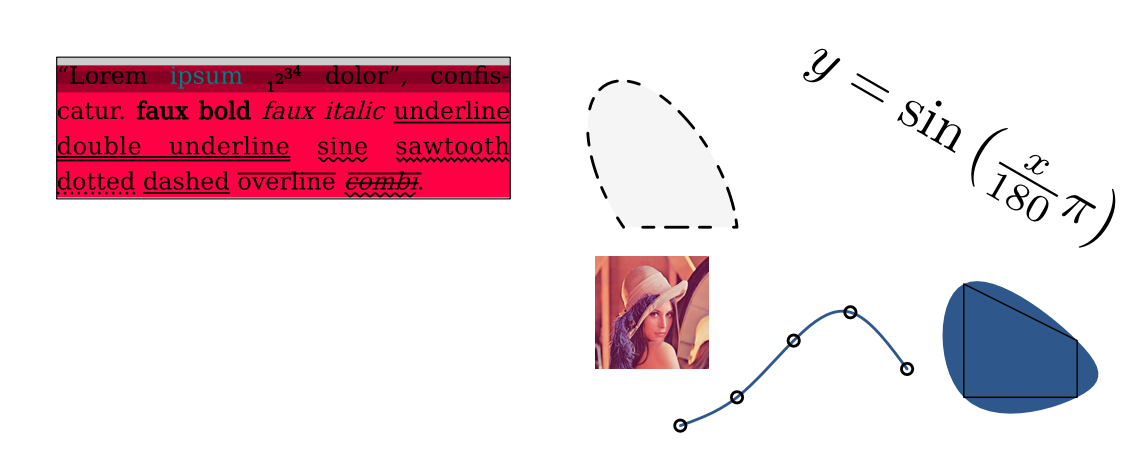
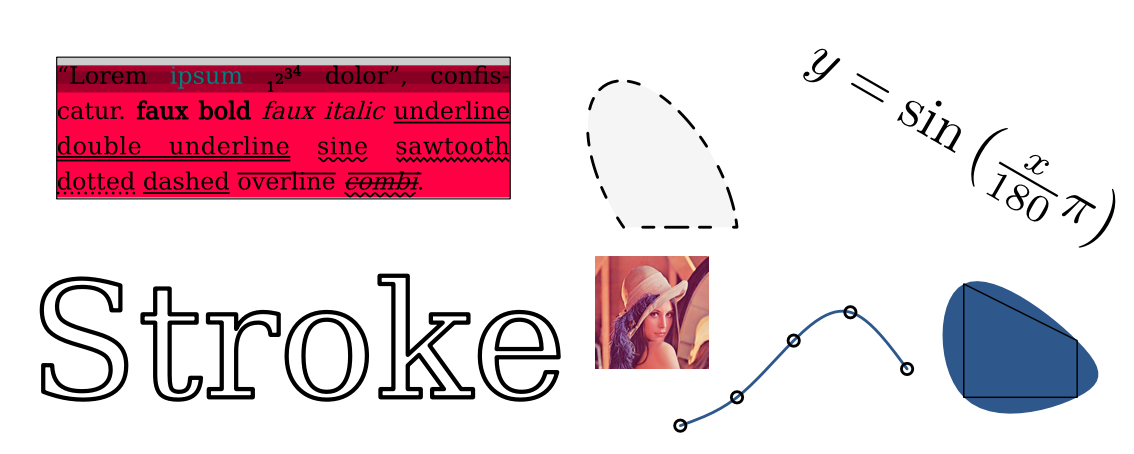
Face now returns path on string; fix example

Changed region(s): [[0.0309, 0.5859, 0.4938, 0.8943]]

diff --git a/font.go b/font.go
@@ -270,64 +270,66 @@ func (ff FontFace) TextWidth(s string) float64 {
 	return w
 }
 
-// ToPath converts a rune to a path and also returns its advance in mm.
-func (ff FontFace) ToPath(r rune) (*Path, float64) {
+// ToPath converts a string to a path and also returns its advance in mm.
+func (ff FontFace) ToPath(s string) (*Path, float64) {
 	// TODO: use caching if performance suffers
 	p := &Path{}
-	index, err := ff.f.sfnt.GlyphIndex(&sfntBuffer, r)
-	if err != nil {
-		return p, 0.0
-	}
+	x := 0.0
+	for _, r := range s {
+		index, err := ff.f.sfnt.GlyphIndex(&sfntBuffer, r)
+		if err != nil {
+			return p, 0.0
+		}
 
-	segments, err := ff.f.sfnt.LoadGlyph(&sfntBuffer, index, ff.ppem, nil)
-	if err != nil {
-		return p, 0.0
-	}
+		segments, err := ff.f.sfnt.LoadGlyph(&sfntBuffer, index, ff.ppem, nil)
+		if err != nil {
+			return p, 0.0
+		}
 
-	var start0, end Point
-	for i, segment := range segments {
-		switch segment.Op {
-		case sfnt.SegmentOpMoveTo:
-			if i != 0 && start0.Equals(end) {
-				p.Close()
+		var start0, end Point
+		for i, segment := range segments {
+			switch segment.Op {
+			case sfnt.SegmentOpMoveTo:
+				if i != 0 && start0.Equals(end) {
+					p.Close()
+				}
+				end = fromP26_6(segment.Args[0])
+				end.X += ff.fauxItalic * -end.Y
+				p.MoveTo(x+end.X, ff.offset-end.Y)
+				start0 = end
+			case sfnt.SegmentOpLineTo:
+				end = fromP26_6(segment.Args[0])
+				end.X += ff.fauxItalic * -end.Y
+				p.LineTo(x+end.X, ff.offset-end.Y)
+			case sfnt.SegmentOpQuadTo:
+				cp := fromP26_6(segment.Args[0])
+				end = fromP26_6(segment.Args[1])
+				cp.X += ff.fauxItalic * -cp.Y
+				end.X += ff.fauxItalic * -end.Y
+				p.QuadTo(x+cp.X, ff.offset-cp.Y, x+end.X, ff.offset-end.Y)
+			case sfnt.SegmentOpCubeTo:
+				cp1 := fromP26_6(segment.Args[0])
+				cp2 := fromP26_6(segment.Args[1])
+				end = fromP26_6(segment.Args[2])
+				cp1.X += ff.fauxItalic * -cp1.Y
+				cp2.X += ff.fauxItalic * -cp2.Y
+				end.X += ff.fauxItalic * -end.Y
+				p.CubeTo(x+cp1.X, ff.offset-cp1.Y, x+cp2.X, ff.offset-cp2.Y, x+end.X, ff.offset-end.Y)
 			}
-			end = fromP26_6(segment.Args[0])
-			end.X += ff.fauxItalic * -end.Y
-			p.MoveTo(end.X, ff.offset-end.Y)
-			start0 = end
-		case sfnt.SegmentOpLineTo:
-			end = fromP26_6(segment.Args[0])
-			end.X += ff.fauxItalic * -end.Y
-			p.LineTo(end.X, ff.offset-end.Y)
-		case sfnt.SegmentOpQuadTo:
-			cp := fromP26_6(segment.Args[0])
-			end = fromP26_6(segment.Args[1])
-			cp.X += ff.fauxItalic * -cp.Y
-			end.X += ff.fauxItalic * -end.Y
-			p.QuadTo(cp.X, ff.offset-cp.Y, end.X, ff.offset-end.Y)
-		case sfnt.SegmentOpCubeTo:
-			cp1 := fromP26_6(segment.Args[0])
-			cp2 := fromP26_6(segment.Args[1])
-			end = fromP26_6(segment.Args[2])
-			cp1.X += ff.fauxItalic * -cp1.Y
-			cp2.X += ff.fauxItalic * -cp2.Y
-			end.X += ff.fauxItalic * -end.Y
-			p.CubeTo(cp1.X, ff.offset-cp1.Y, cp2.X, ff.offset-cp2.Y, end.X, ff.offset-end.Y)
+		}
+		if !p.Empty() && start0.Equals(end) {
+			p.Close()
+		}
+		if ff.fauxBold != 0.0 {
+			p = p.Offset(ff.fauxBold)
+		}
+
+		advance, err := ff.f.sfnt.GlyphAdvance(&sfntBuffer, index, ff.ppem, ff.hinting)
+		if err == nil {
+			x += fromI26_6(advance)
 		}
 	}
-	if !p.Empty() && start0.Equals(end) {
-		p.Close()
-	}
-	if ff.fauxBold != 0.0 {
-		p = p.Offset(ff.fauxBold)
-	}
-
-	dx := 0.0
-	advance, err := ff.f.sfnt.GlyphAdvance(&sfntBuffer, index, ff.ppem, ff.hinting)
-	if err == nil {
-		dx = fromI26_6(advance)
-	}
-	return p, dx
+	return p, x
 }
 
 // Kerning returns the kerning between two runes in mm (ie. the adjustment on the advance).

diff --git a/example/example.go b/example/example.go
@@ -87,6 +87,7 @@ func drawText(c *canvas.Canvas, x, y float64, face canvas.FontFace, rich *canvas
 }
 
 func Draw(c *canvas.Canvas) {
+	// Draw a comprehensive text box
 	face := dejaVuSerif.Face(12.0)
 	rich := canvas.NewRichText()
 	rich.Add(face, canvas.Black, "\"Lorem ")
@@ -115,10 +116,12 @@ func Draw(c *canvas.Canvas) {
 	rich.Add(face, canvas.Black, ".")
 	drawText(c, 10, 70, face, rich)
 
+	// Draw the word Stroke being stroked
 	face = dejaVuSerif.Face(80.0)
-	//p := canvas.NewTextLine(face, canvas.Black, "Stroke").ToPath()
-	//c.DrawPath(5, 10, p.Stroke(0.75, canvas.RoundCapper, canvas.RoundJoiner))
+	p, _ := face.ToPath("Stroke")
+	c.DrawPath(5, 10, p.Stroke(0.75, canvas.RoundCapper, canvas.RoundJoiner))
 
+	// Draw a LaTeX formula
 	latex, err := canvas.ParseLaTeX(`$y = \sin\left(\frac{x}{180}\pi\right)$`)
 	if err != nil {
 		panic(err)
@@ -127,6 +130,7 @@ func Draw(c *canvas.Canvas) {
 	c.SetFillColor(canvas.Black)
 	c.DrawPath(140, 65, latex)
 
+	// Draw an elliptic arc being dashed
 	ellipse, err := canvas.ParseSVG(fmt.Sprintf("A10 20 30 1 0 20 0z"))
 	if err != nil {
 		panic(err)
@@ -144,6 +148,7 @@ func Draw(c *canvas.Canvas) {
 	c.DrawPath(110, 40, ellipse)
 	c.SetStrokeColor(canvas.Transparent)
 
+	// Draw an open set of points being smoothed
 	polyline := &canvas.Polyline{}
 	polyline.Add(0.0, 0.0)
 	polyline.Add(20.0, 0.0)
@@ -155,6 +160,7 @@ func Draw(c *canvas.Canvas) {
 	c.SetFillColor(canvas.Black)
 	c.DrawPath(170, 10, polyline.ToPath().Stroke(0.25, canvas.RoundCapper, canvas.RoundJoiner))
 
+	// Draw a closed set of points being smoothed
 	polyline = &canvas.Polyline{}
 	polyline.Add(0.0, 0.0)
 	polyline.Add(10.0, 5.0)
@@ -168,6 +174,7 @@ func Draw(c *canvas.Canvas) {
 		c.DrawPath(120, 5, canvas.Circle(1.0).Translate(coord.X, coord.Y).Stroke(0.5, canvas.RoundCapper, canvas.RoundJoiner))
 	}
 
+	// Draw a raster image
 	lenna, err := os.Open("lenna.png")
 	if err != nil {
 		panic(err)

diff --git a/text.go b/text.go
@@ -526,7 +526,7 @@ func (ts textSpan) getGlyphSpacing(width float64) float64 {
 	return glyphSpacing
 }
 
-// TODO: transform to Draw to canvas
+// TODO: transform to Draw to canvas and cache the glyph rasterizations?
 func (ts textSpan) ToPath(width float64) *Path {
 	glyphSpacing := ts.getGlyphSpacing(width)
 	s := ts.ff.f.transform(ts.s, glyphSpacing == 0.0)
@@ -539,7 +539,7 @@ func (ts textSpan) ToPath(width float64) *Path {
 			x += ts.ff.Kerning(rPrev, r)
 		}
 
-		pr, advance := ts.ff.ToPath(r)
+		pr, advance := ts.ff.ToPath(string(r))
 		pr = pr.Translate(x, 0.0)
 		p = p.Append(pr)
 		x += advance
